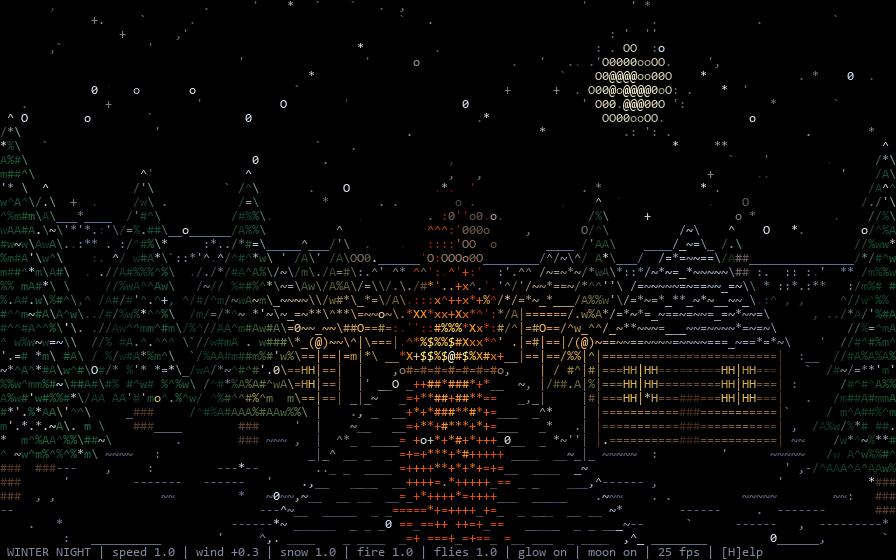
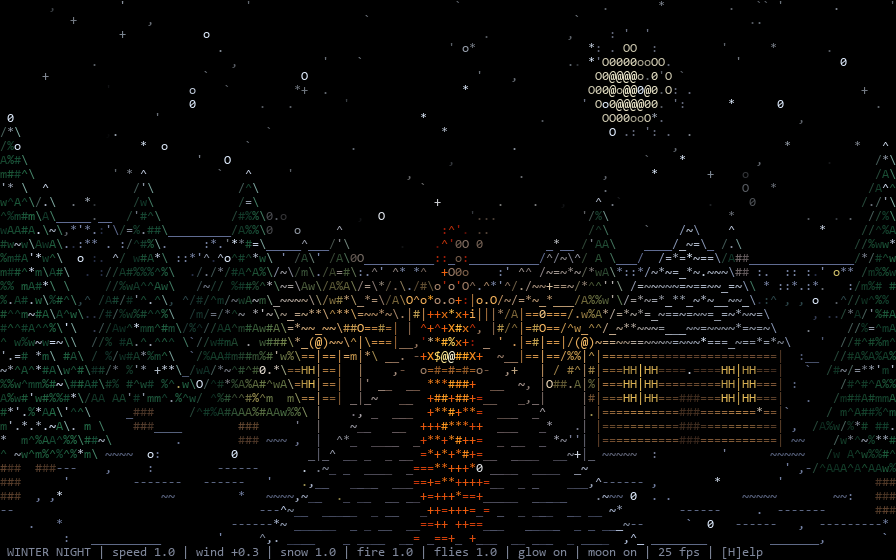
Make the bonfire smaller

diff --git a/winter.py b/winter.py
@@ -337,8 +337,8 @@ class Scene:
         w, h = self.w, self.h
         self.fz = 2.8
         self.fyb = self.base_row(self.fz)
-        self.fh = max(4, int(h * 0.18))
-        fw = (self.fh * 2 + 3) | 1
+        self.fh = max(3, int(round(h * 0.13)))
+        fw = (self.fh * 2 + 1) | 1
         if fw > w - 6:
             fw = max(5, (w - 6) | 1)
         self.fw = fw
